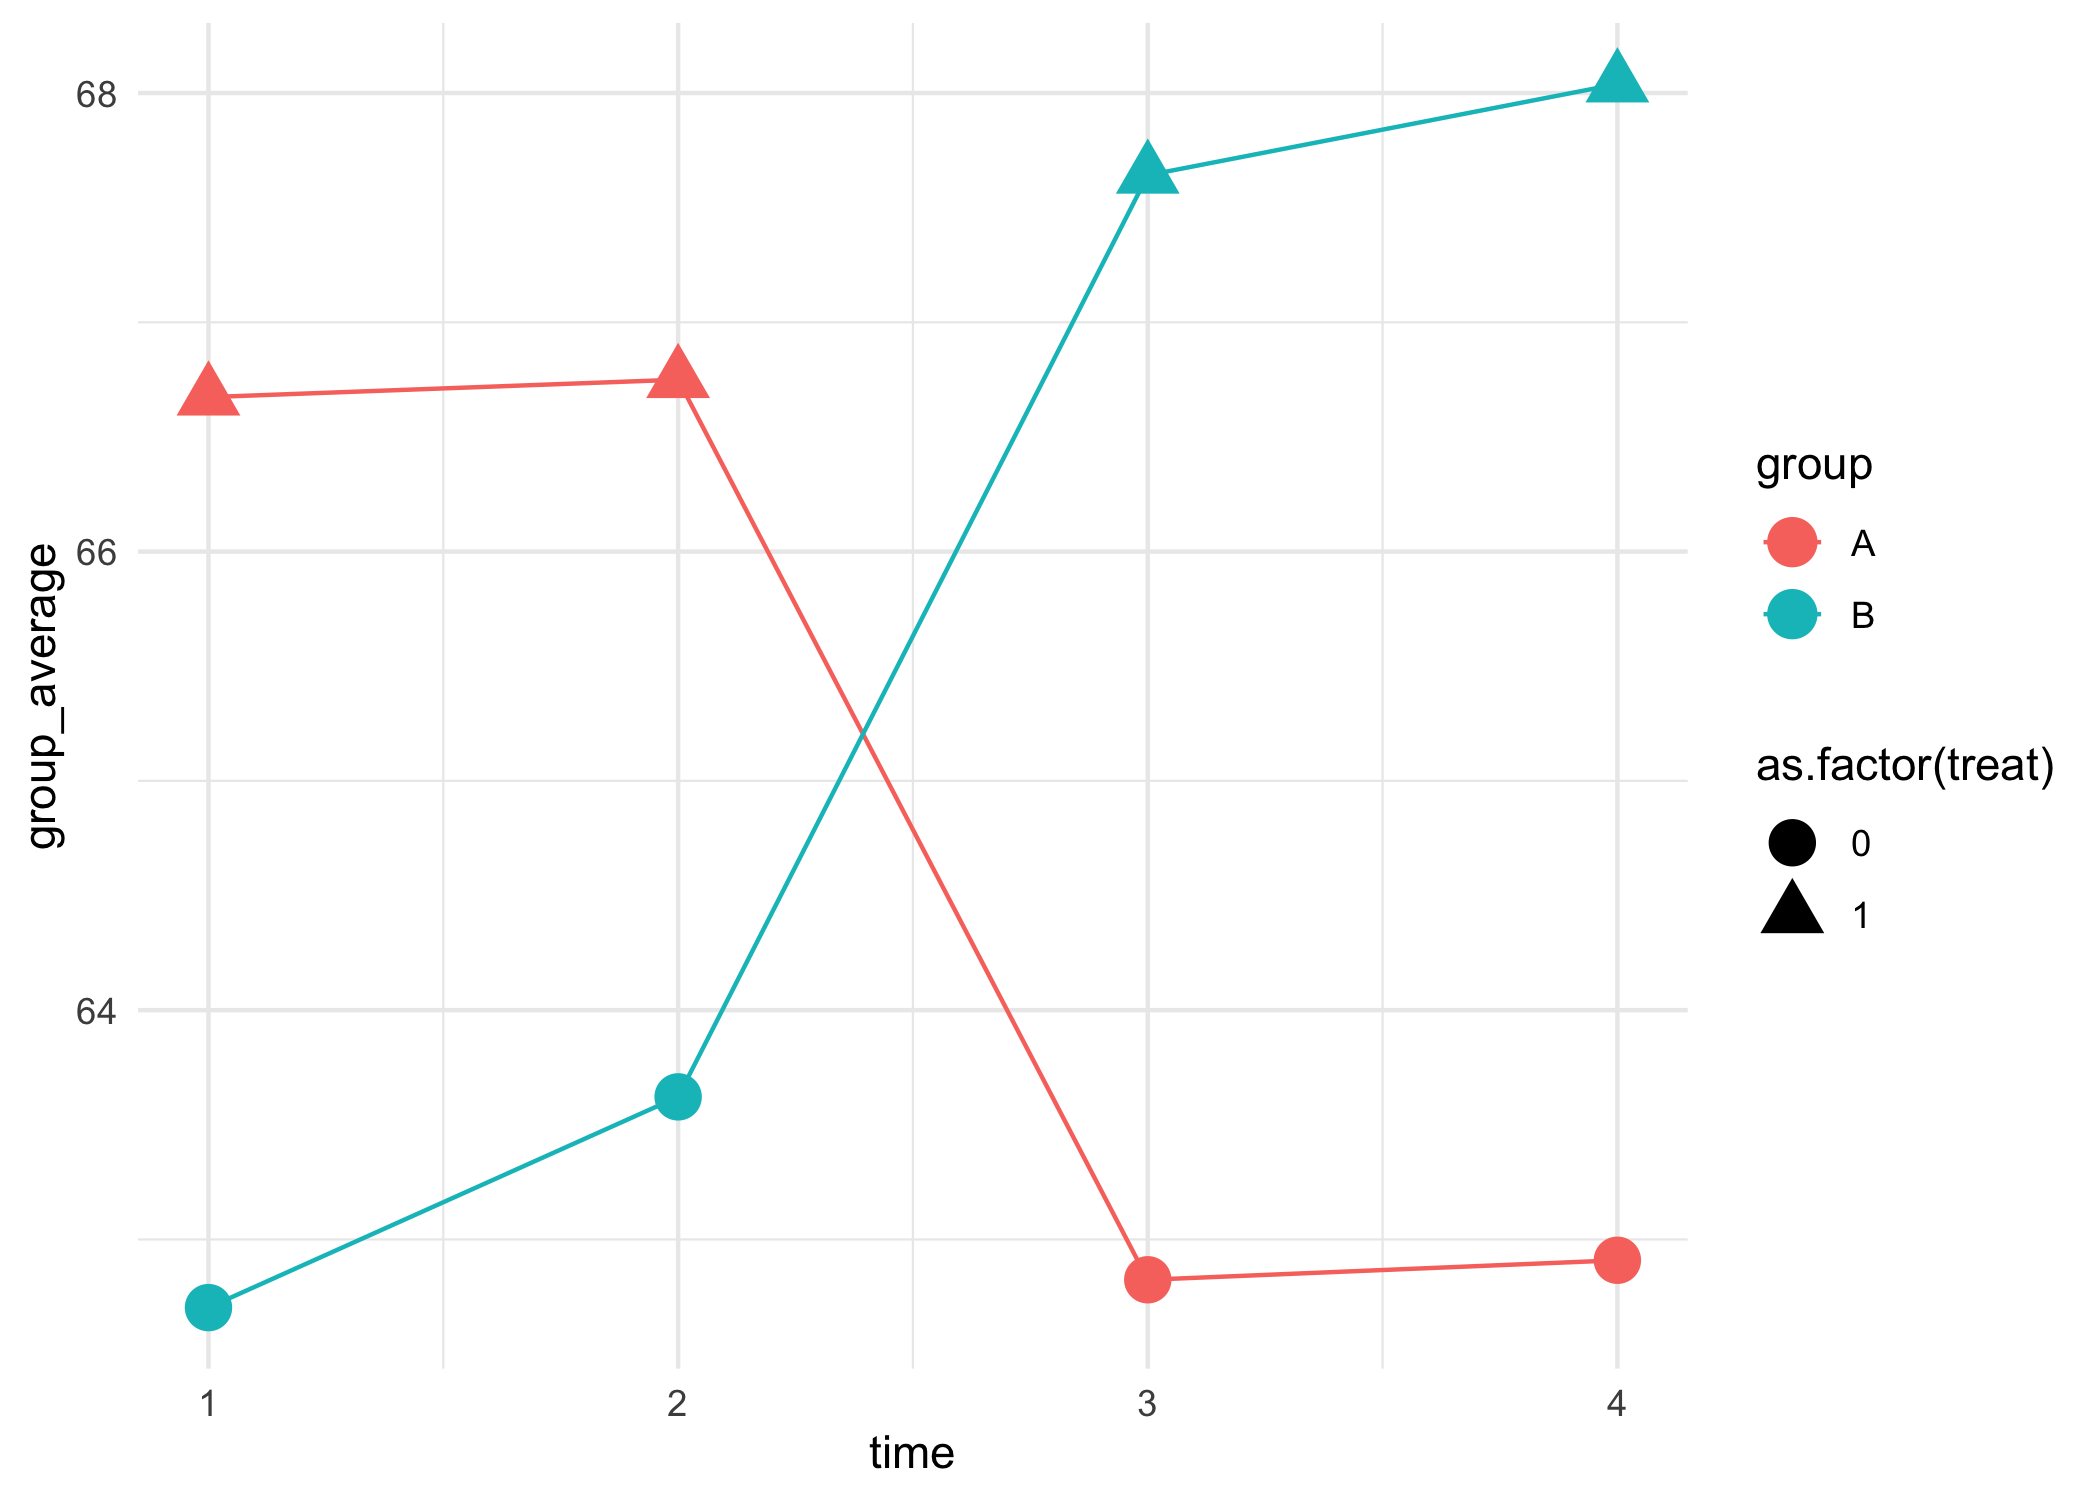
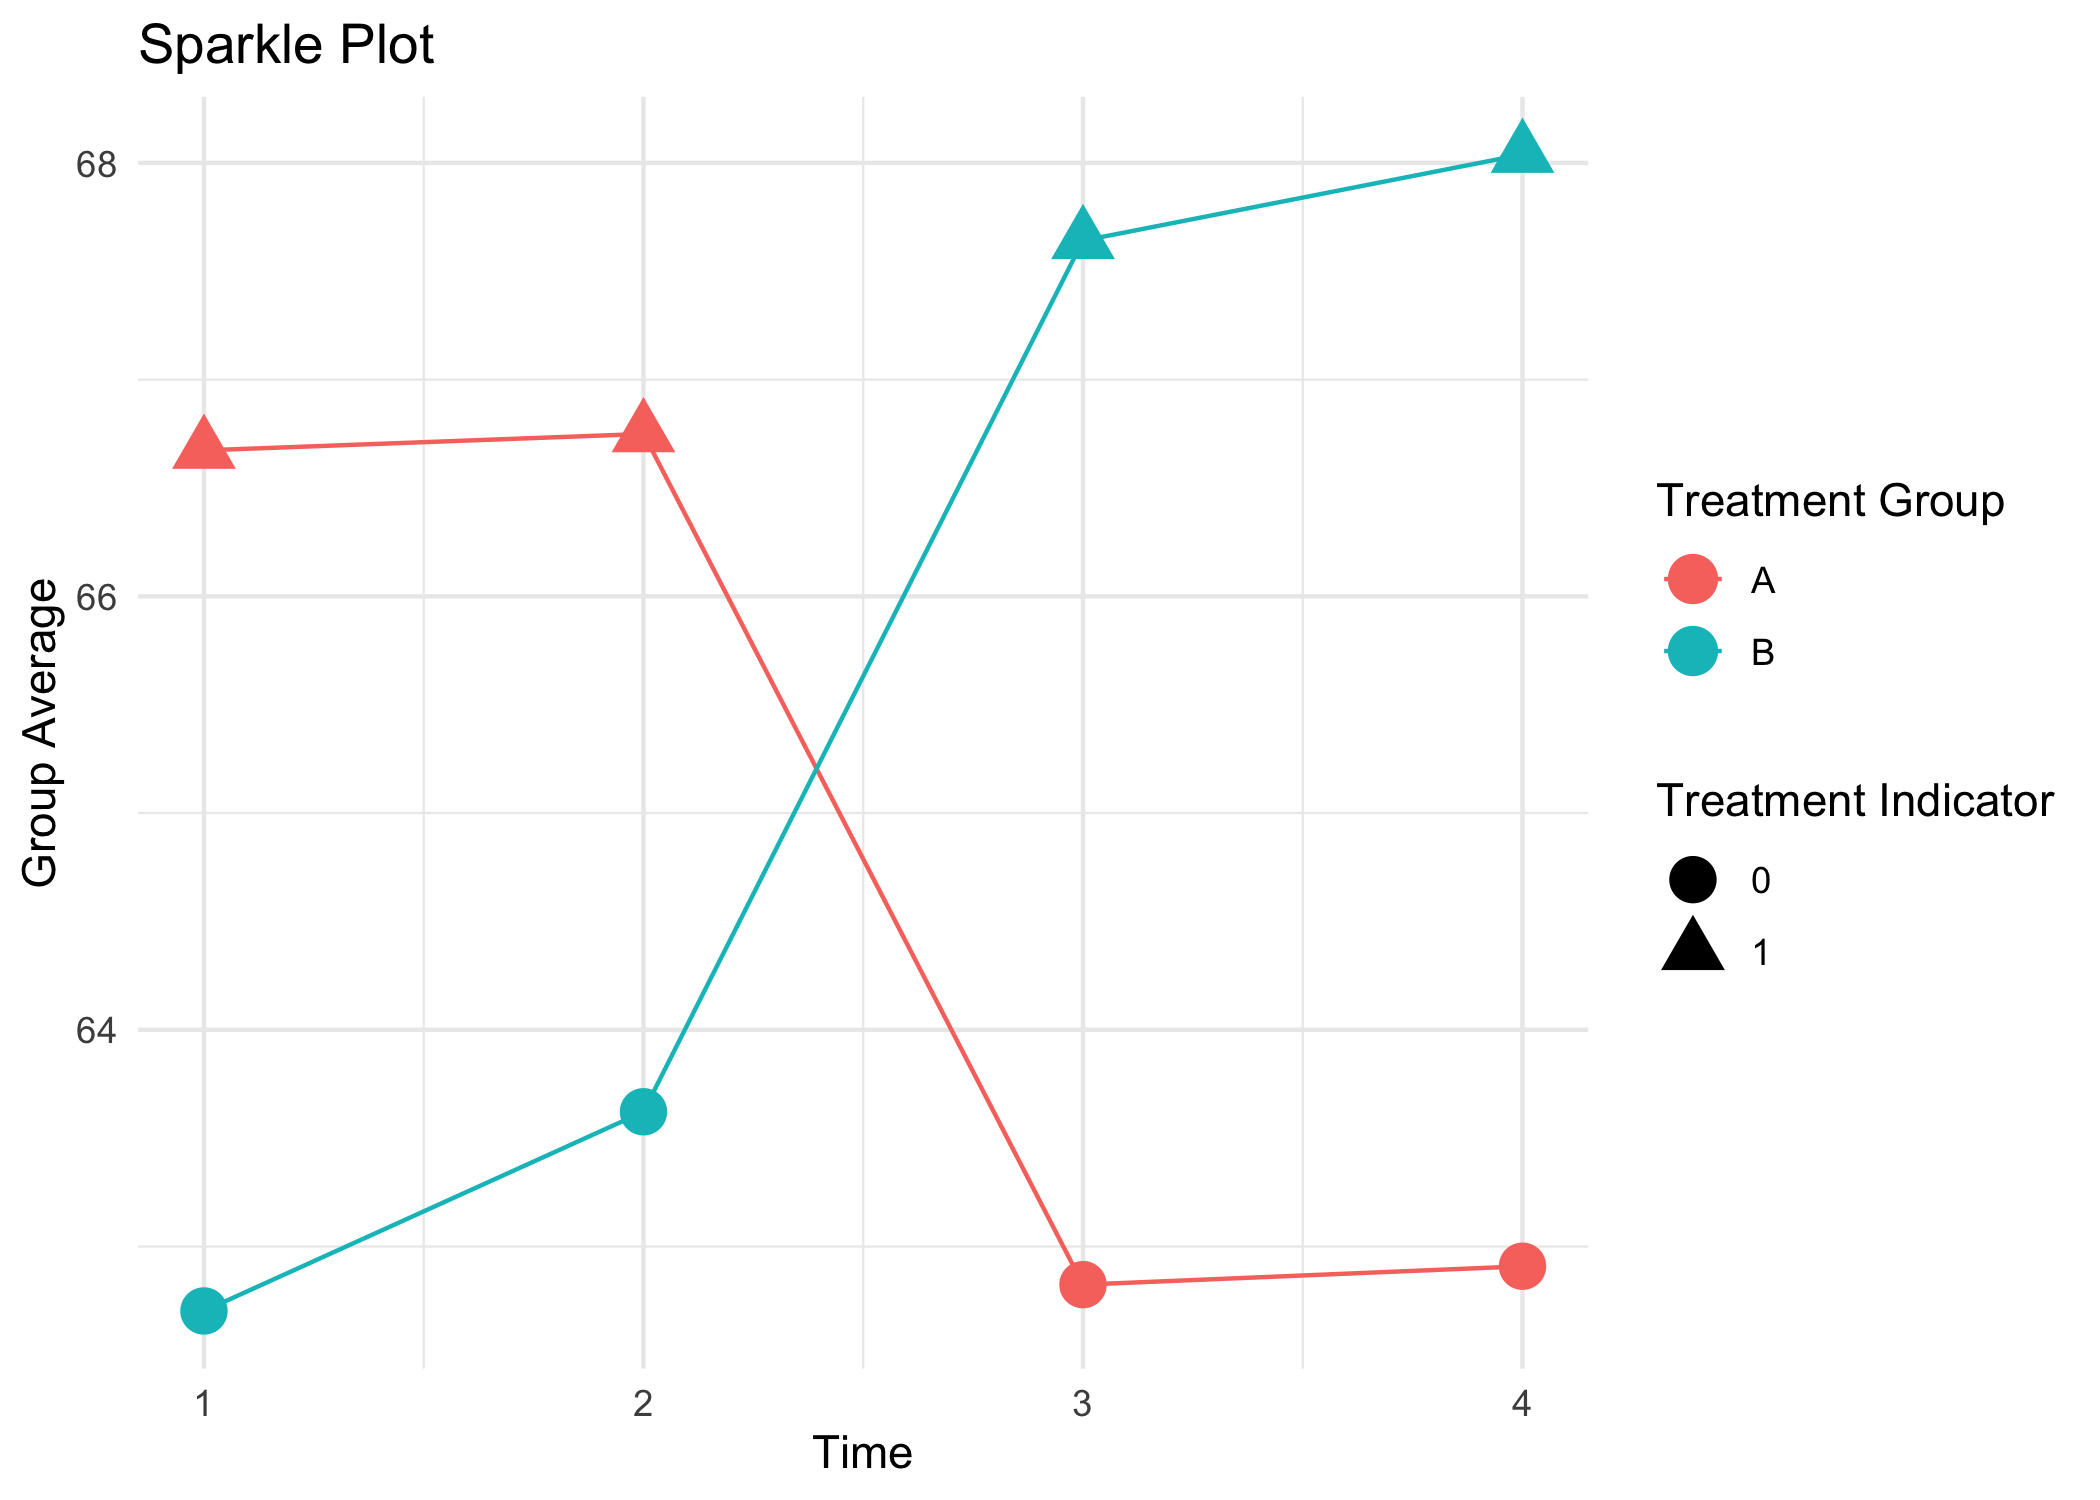
2020 worksheet, plot update

diff --git a/week_09/estimating_with_clustered_standard_errors.md b/week_09/estimating_with_clustered_standard_errors.md
@@ -249,7 +249,14 @@ effect.
 d[ , .(group_average = mean(Y), treat = mean(treat)), keyby = .(group, time)] %>%  
   ggplot(aes(x = time, y = group_average, color = group)) + 
   geom_line() + 
-  geom_point(aes(x = time, y = group_average, color = group, shape = as.factor(treat)), size = 5)
+  geom_point(aes(x = time, y = group_average, color = group, shape = as.factor(treat)), size = 5) + 
+  labs(
+    title = 'Sparkle Plot', 
+    x = 'Time', 
+    y = 'Group Average', 
+    color = 'Treatment Group', 
+    shape = 'Treatment Indicator'
+  )
 ```
 
 ![](estimating_with_clustered_standard_errors_files/figure-gfm/unnamed-chunk-6-1.png)<!-- -->
